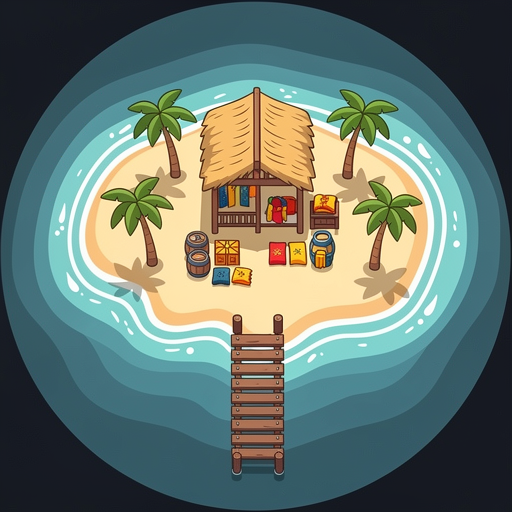
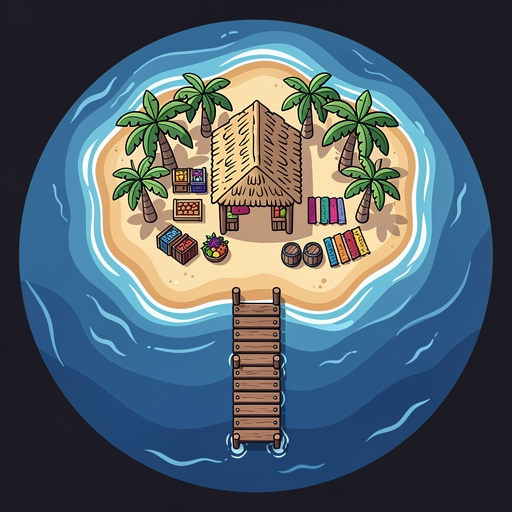
fix: pure ocean map-bg, completed node image, drop cubes/tick, readable labels
- Map-bg now pure uniform terrain (ocean only for Polynesian)
- Added completed node type (golden glow variant)
- Cleared levels use completed image instead of checkmark
- Dropped cube count and tick marks from nodes
- Level numbers in dark circle pill for readability
- Shop nodes show image only (no label)

diff --git a/scripts/generate-assets/lib/prompts.ts b/scripts/generate-assets/lib/prompts.ts
@@ -176,7 +176,7 @@ export function buildMapBackgroundPrompt(theme: ThemeDefinition): string {
     "Top-down game map textures",
     "Stylized aerial landscape illustration"
   ],
-  "scene": "Top-down bird's eye aerial view looking straight down at ${theme.mapScene}. Pure natural terrain seen from very high altitude — only ground, water, and natural formations visible. No buildings, no structures, no man-made objects.",
+  "scene": "Top-down bird's eye aerial view looking straight down at a single uniform natural surface — ${theme.mapScene}. ONLY ONE natural element filling the entire frame: just water, or just sand, or just snow, or just jungle canopy, or just earth. Absolutely no islands, no land masses, no clearings, no structures, no objects — pure uniform terrain texture.",
   "style": "flat vector illustration with smooth gradients and cel shading, stylized satellite-view aesthetic. Rich color saturation.",
   "color_palette": {
     "primary": "${theme.palette.bg}",
@@ -201,57 +201,67 @@ export function buildMapBackgroundPrompt(theme: ThemeDefinition): string {
 `.trim();
 }
 
-export function buildMapNodePrompt(theme: ThemeDefinition, nodeType: "level" | "shop" | "boss"): string {
+export function buildMapNodePrompt(theme: ThemeDefinition, nodeType: "level" | "shop" | "boss" | "completed"): string {
   const nodeDescriptions: Record<string, Record<string, string>> = {
     "Polynesian": {
       level: "A small tropical island seen from above — sandy beach ring around lush green vegetation, surrounded by deep blue ocean. Compact circular island shape.",
       shop: "A small tropical island with a thatched-roof market hut and wooden dock seen from above — sandy beach, palm trees, a few colorful trade goods visible. Surrounded by ocean.",
       boss: "A volcanic island seen from above — dark rocky mountain with glowing orange lava crater at the center, surrounded by black volcanic beach and deep ocean. Larger and more dramatic than regular islands.",
+      completed: "A small tropical island seen from above with a bright golden flag planted at its peak — sandy beach ring, lush green vegetation, golden glow emanating from the island. Surrounded by deep blue ocean. Victorious, conquered feel.",
     },
     "Ancient Egypt": {
       level: "A small desert oasis seen from above — sandy terrain with a cluster of palm trees around a turquoise water pool. Surrounded by golden desert sand.",
       shop: "A small desert bazaar seen from above — colorful market tents and awnings arranged around a central well, surrounded by sand.",
       boss: "A golden pyramid complex seen from above — large pyramid with smaller structures around it, long shadows cast on the sand. Imposing and monumental.",
+      completed: "A small desert oasis seen from above with a golden ankh symbol glowing at the center — palm trees, turquoise water, warm golden radiance. Surrounded by sand. Conquered, blessed feel.",
     },
     "Norse": {
       level: "A small snowy clearing seen from above — a circle of standing rune stones on white snow, surrounded by dark pine forest. Faint blue glow from runes.",
       shop: "A small Viking village seen from above — a few wooden longhouses with snow-covered roofs arranged around a central fire pit, surrounded by snowy forest.",
       boss: "A massive frost fortress seen from above — ice-covered great hall with glowing blue windows on a frozen lake, surrounded by snow and dark forest. Imposing scale.",
+      completed: "A small snowy clearing seen from above with rune stones glowing bright blue — warm golden fire burning at the center, victory runes illuminated. Surrounded by dark forest. Conquered feel.",
     },
     "Ancient Greece": {
       level: "A small rocky islet seen from above — white marble column ruins on sun-bleached rock, surrounded by azure Aegean sea.",
       shop: "A small harbor town seen from above — white buildings with blue roofs clustered around a tiny port with boats, surrounded by sea.",
       boss: "A grand temple complex on a hilltop seen from above — white marble Parthenon with surrounding columns, olive groves around the base. Gleaming in golden light.",
+      completed: "A small rocky islet seen from above with a golden laurel wreath glowing at the center — white marble columns intact, warm golden light. Surrounded by azure sea. Victorious feel.",
     },
     "Feudal Japan": {
       level: "A small shrine clearing seen from above — a stone lantern and small torii gate amid pink cherry blossom trees, surrounded by dark misty forest.",
       shop: "A small tea house seen from above — wooden building with warm light, a zen rock garden beside it, cherry blossoms, surrounded by bamboo forest.",
       boss: "A grand castle seen from above — multi-tiered Japanese castle with red and black roofs, stone walls, surrounded by cherry blossom gardens and moats. Dramatic scale.",
+      completed: "A small shrine clearing seen from above with cherry blossoms in full golden bloom — warm light radiating from the torii gate, victorious banners. Surrounded by misty forest. Conquered feel.",
     },
     "Ancient China": {
       level: "A small pagoda garden seen from above — a jade-green pagoda beside a lotus pond, surrounded by bamboo and misty terrain.",
       shop: "A small market courtyard seen from above — silk-draped stalls with hanging lanterns around a central jade fountain, surrounded by gardens.",
       boss: "An imperial palace complex seen from above — golden curved roofs of a grand palace with dragon statues, surrounded by formal gardens and walls. Majestic scale.",
+      completed: "A small pagoda garden seen from above with golden lanterns lit and jade glowing bright — warm imperial radiance from the pagoda. Surrounded by misty terrain. Conquered feel.",
     },
     "Ancient Persia": {
       level: "A small garden pavilion seen from above — a blue-tiled dome structure beside a reflecting pool, surrounded by cypress trees and arid terrain.",
       shop: "A small caravanserai seen from above — an arched courtyard with colorful goods and carpets, a central fountain, surrounded by desert.",
       boss: "A grand palace seen from above — massive blue domes and golden minarets, geometric tile courtyards, reflecting pools. Luminous and imposing.",
+      completed: "A small garden pavilion seen from above with golden light streaming from the blue dome — geometric tiles glowing, reflecting pool shimmering gold. Surrounded by arid terrain. Conquered feel.",
     },
     "Mayan": {
       level: "A small jungle temple ruin seen from above — a moss-covered stone platform with carved glyphs, partially hidden by jungle canopy. Green vines everywhere.",
       shop: "A small jungle marketplace seen from above — wooden platforms with woven awnings among the trees, offerings and trade goods visible, surrounded by dense canopy.",
       boss: "A stepped pyramid seen from above — massive Mayan pyramid rising above the jungle canopy, calendar sun disc carved into the top platform. Ancient and powerful.",
+      completed: "A small jungle temple ruin seen from above with golden glyphs glowing on the stone — warm light radiating through the vines, conquered and reclaimed. Surrounded by canopy. Victorious feel.",
     },
     "Chokwe": {
       level: "A small ceremonial circle seen from above — red earth clearing with carved wooden poles arranged in a ring, surrounded by African forest.",
       shop: "A small village market seen from above — thatched-roof huts with woven raffia screens around a central fire pit, trade goods spread on cloths, surrounded by forest.",
       boss: "A grand ceremonial lodge seen from above — large carved wooden structure with mask facade, blazing fires around it, geometric patterns in the red earth. Powerful presence.",
+      completed: "A small ceremonial circle seen from above with blazing golden fire at the center — carved poles glowing warm, red earth patterns illuminated. Surrounded by forest. Victorious feel.",
     },
     "Inca": {
       level: "A small stone terrace seen from above — interlocking polygonal stone walls forming a circular platform on a mountainside, surrounded by green highland terrain.",
       shop: "A small mountain trading post seen from above — stone buildings with textile-draped market stalls, llamas visible, surrounded by terraced mountain slopes.",
       boss: "A mountain citadel seen from above — massive interlocking stone walls and terraces of a Machu Picchu-style complex, golden Inti sun disc at the center. Cloud forest below.",
+      completed: "A small stone terrace seen from above with a golden Inti sun disc glowing at the center — interlocking stones radiating warm light. Surrounded by highland terrain. Conquered feel.",
     },
   };
 

diff --git a/client-budokan/src/ui/pages/MapPage.tsx b/client-budokan/src/ui/pages/MapPage.tsx
@@ -280,12 +280,15 @@ const MapPage: React.FC = () => {
                       const isInteractive = node.state !== "locked";
                       const label = getLabel(node);
 
+                      const isCleared = node.state === "cleared" || node.state === "visited";
                       const nodeImg =
                         node.type === "boss"
                           ? themeImages.mapNodeBoss
                           : node.type === "shop"
                             ? themeImages.mapNodeShop
-                            : themeImages.mapNodeLevel;
+                            : isCleared
+                              ? themeImages.mapNodeCompleted
+                              : themeImages.mapNodeLevel;
                       const r = node.type === "boss" ? 4.5 : node.type === "shop" ? 3.5 : 3;
 
                       return (
@@ -326,33 +329,28 @@ const MapPage: React.FC = () => {
                             strokeWidth={node.type === "boss" ? 0.6 : 0.4}
                           />
 
-                          <text
-                            x={cx}
-                            y={cy + r + 2}
-                            textAnchor="middle"
-                            dominantBaseline="central"
-                            fill={colors.text}
-                            fontSize={2}
-                            fontFamily="Bangers"
-                          >
-                            {label}
-                          </text>
-
-                          {node.state === "cleared" && game && node.contractLevel != null && (() => {
-                            const lvlStars = game.getLevelStars(node.contractLevel);
-                            if (lvlStars <= 0) return null;
-                            return (
+                          {node.type !== "shop" && (
+                            <>
+                              <circle
+                                cx={cx}
+                                cy={cy + r + 2}
+                                r={1.8}
+                                fill="rgba(0,0,0,0.7)"
+                              />
                               <text
                                 x={cx}
-                                y={cy + r + 4.2}
+                                y={cy + r + 2.1}
                                 textAnchor="middle"
                                 dominantBaseline="central"
+                                fill="#ffffff"
                                 fontSize={2}
+                                fontWeight="bold"
+                                fontFamily="Bangers"
                               >
-                                {"🧊".repeat(lvlStars)}
+                                {label}
                               </text>
-                            );
-                          })()}
+                            </>
+                          )}
                         </g>
                       );
                     })}

diff --git a/scripts/generate-assets/generate-images.ts b/scripts/generate-assets/generate-images.ts
@@ -225,7 +225,7 @@ function buildPerThemeJobs(themeId: string, theme: ThemeDefinition, filter?: Ass
   }
 
   if (shouldIncludeCategory("map-nodes", filter)) {
-    const nodeTypes = ["level", "shop", "boss"] as const;
+    const nodeTypes = ["level", "shop", "boss", "completed"] as const;
     for (const nodeType of nodeTypes) {
       const filename = `map-node-${nodeType}.png`;
       jobs.push({

diff --git a/client-budokan/src/config/themes.ts b/client-budokan/src/config/themes.ts
@@ -513,6 +513,7 @@ export function getThemeImages(themeId: ThemeId) {
     mapNodeLevel: `${base}/map-node-level.png`,
     mapNodeShop: `${base}/map-node-shop.png`,
     mapNodeBoss: `${base}/map-node-boss.png`,
+    mapNodeCompleted: `${base}/map-node-completed.png`,
     themeIcon: `${base}/theme-icon.png`,
   };
 }
